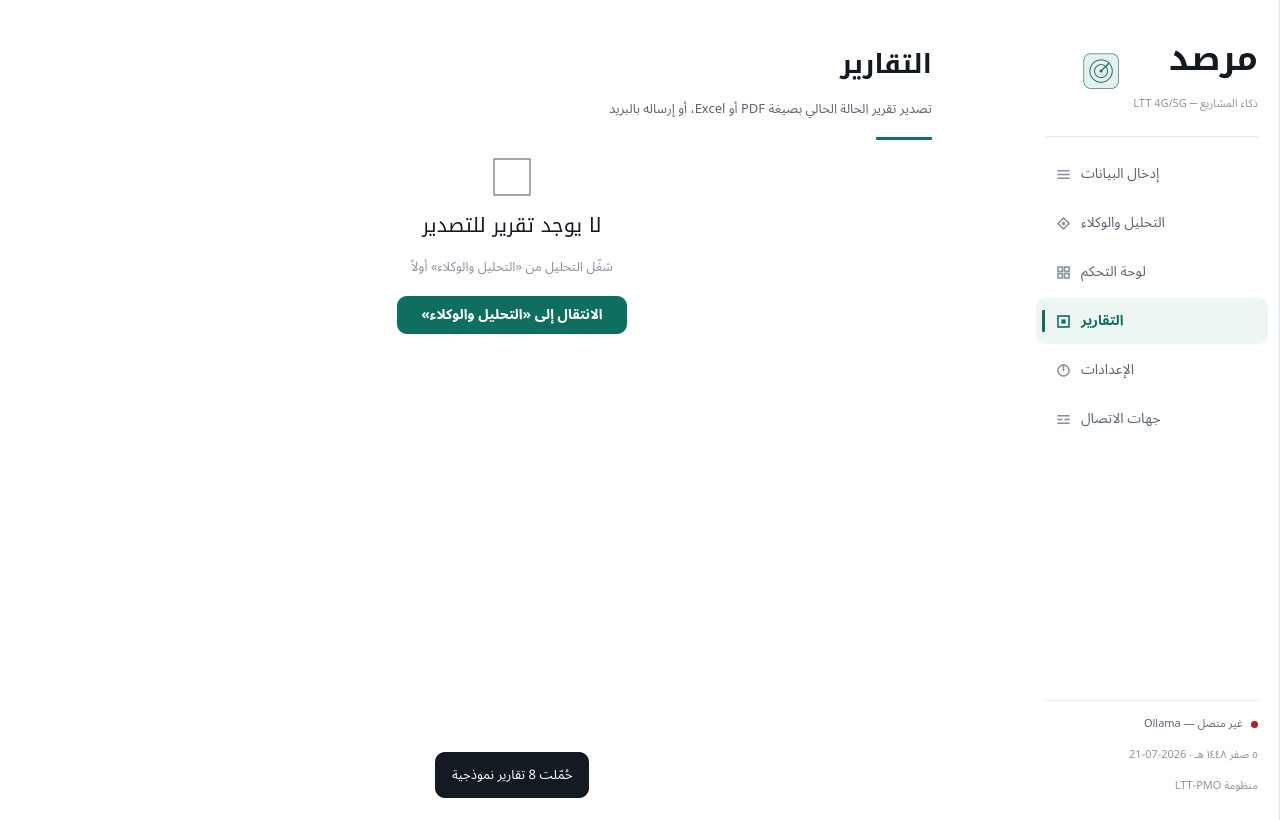
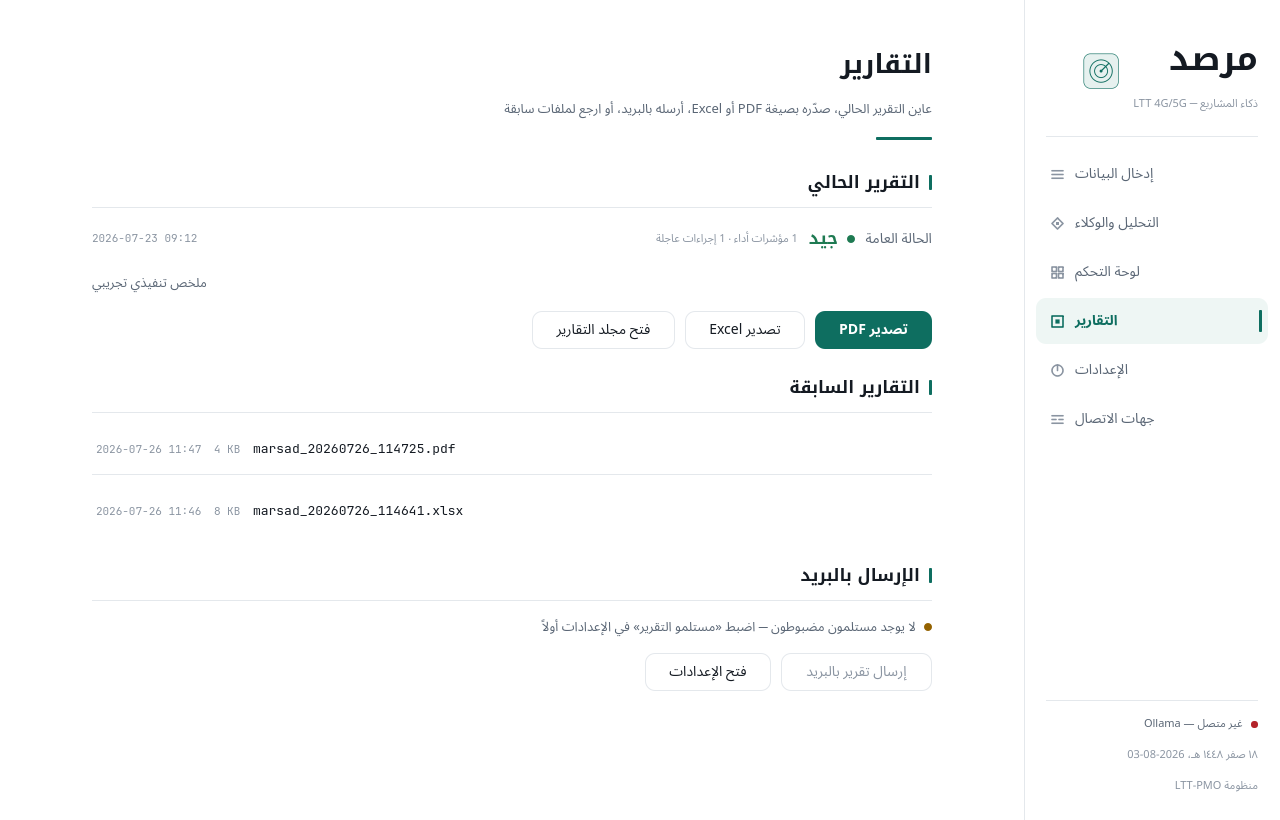
docs: add the release checklist and refresh screenshots
Records the automated gates that are green, the manual pass a human still has
to do on a clean machine, and the known limitations that belong in the release
notes — chiefly that the web API does not ship this release and why.

Claude-Session: https://claude.ai/code/session_01QLjmqxhJZLfXDYxcqHDepd

diff --git a/docs/RELEASE_CHECKLIST.md b/docs/RELEASE_CHECKLIST.md
@@ -1,0 +1,76 @@
+# Release checklist — مرصد (marsad)
+
+Run this before tagging any version. Every automated item below was green on the
+`fix/launch-readiness` branch; the manual items need a human and a real model.
+
+## Automated
+
+- [ ] `python3 -m unittest discover -s tests -v` — 112 tests, all pass
+- [ ] `python3 tools/test_api.py` — 7 tests, all pass
+- [ ] `QT_QPA_PLATFORM=offscreen python3 tools/capture_qt.py docs/screenshots` — six PNGs, and stderr free of `QML ERROR`, `ReferenceError`, `TypeError` and `Unable to assign`
+- [ ] `pyinstaller --noconfirm marsad.spec` — completes, `dist/marsad/` exists
+- [ ] `git ls-files | grep -E "settings\.json$|contacts\.json$|^reports/|^logs/|^uploads/"` — no output
+- [ ] Security probes, all true:
+  - `connectors.SSL_CONTEXT.verify_mode == ssl.CERT_REQUIRED` and `check_hostname`
+  - `build_report_html` with `<img src=x onerror=…>` yields no raw `<img`, no live `onerror="`, and contains `&lt;img`
+  - `import api.app` without `MARSAD_API_ENABLE=1` raises
+  - `GET /api/settings` returns every key in `SECRET_KEYS` as `""`
+- [ ] Regression spot-checks: `AIEngine._parse_json('[{"a":1}]')` returns an error dict, not a list; `export_excel` succeeds with `"priority": "1"`; `export_pdf` succeeds with `"deviation_pct": "12%"`
+
+## Manual, on a clean machine
+
+- [ ] Fresh `python3 -m venv` + `pip install -r requirements.txt`, then `python app.py` starts
+- [ ] Settings: enter a provider key, «اختبار المحرّك» reports success
+- [ ] Input: upload one `.docx`, one `.xlsx` and one `.pdf` — all three appear with the right department
+- [ ] Run an analysis end to end against a real model — the dashboard fills and the app navigates to it
+- [ ] Export PDF and Excel — both open, Arabic reads right-to-left, no `%%` or `None%`, no `;pma&`
+- [ ] Email the report to a real address — it arrives and renders
+- [ ] Link WhatsApp, send one group message, collect — it appears as a report
+- [ ] Close the window mid-analysis — the process exits cleanly, no crash dialog, and reopening works
+
+## Known accepted limitations — state these in the release notes
+
+**The web API does not ship in this release.** `api/` remains in the tree but
+`api/app.py` refuses to import without `MARSAD_API_ENABLE=1`. It is experimental,
+**unauthenticated**, and not hardened. Do not expose it beyond loopback. These
+defects are known and deferred with it:
+
+- No authentication of any kind, and no CSRF protection on the no-body POST routes.
+- Its guard flags are not lock-protected, so two concurrent `POST /api/analysis/run`
+  calls can both start a full run — doubling model spend and interleaving writes to
+  `reports/latest.json`.
+- Its WebSocket fan-out schedules one send task per event, so ordering is not
+  preserved and a client can be dropped mid-run.
+- `save_settings` does an in-place update on the same dict `AIEngine` holds, and there
+  is no busy gate on `PUT /api/settings`, so a settings change during a run switches
+  the provider mid-analysis. The desktop side fixed this; the API side did not.
+- Its `_rebuild_hub` drops buffered WhatsApp reports rather than handing them over.
+- Upload size and count caps are enforced *after* Starlette has already buffered and
+  spooled the whole request, so they bound the copy written to `uploads/`, not the
+  disk and bandwidth consumed receiving it.
+
+**Desktop limitations:**
+
+- Running the desktop app and the web API against the same data directory at the same
+  time is not supported — there is no cross-process locking.
+- Closing the window during an analysis waits up to `ai_timeout + 5s` for the current
+  agent call to finish. The window closes immediately and the connectors and WhatsApp
+  port are released first, so a relaunch works right away, but a background process can
+  linger for that period. If that wait expires the process can still hit the original
+  `QThread: Destroyed while thread is still running` abort — reduced from certain to
+  near-zero, not eliminated.
+- Department creation and employee editing are not available in the Contacts UI; the
+  seeded default org structure is what ships.
+- Filename-based department routing is best-effort. `5Gcore_report.csv` does not route
+  (the `g` stays glued to `core`), and `العقد` is a genuine homograph — "the contract"
+  and "the decade" are identical, so `عقد`/`عقود` match only bare tokens. Unmatched
+  files land in `admin` for manual triage, which is the safe direction.
+- `core/errors.py::friendly_error()` falls back to «تعذّر الاتصال: …» with a truncated
+  raw tail for any error it does not recognise. That names the wrong cause for a
+  non-network failure — e.g. a programming error reads as a connection failure.
+
+## Do not
+
+- Do not create or move a git tag, or publish a GitHub release, without the owner's
+  explicit say-so. That permission has been withheld throughout this work.
+- Do not commit `settings.json`, `data/contacts.json`, `reports/`, `logs/` or `uploads/`.
